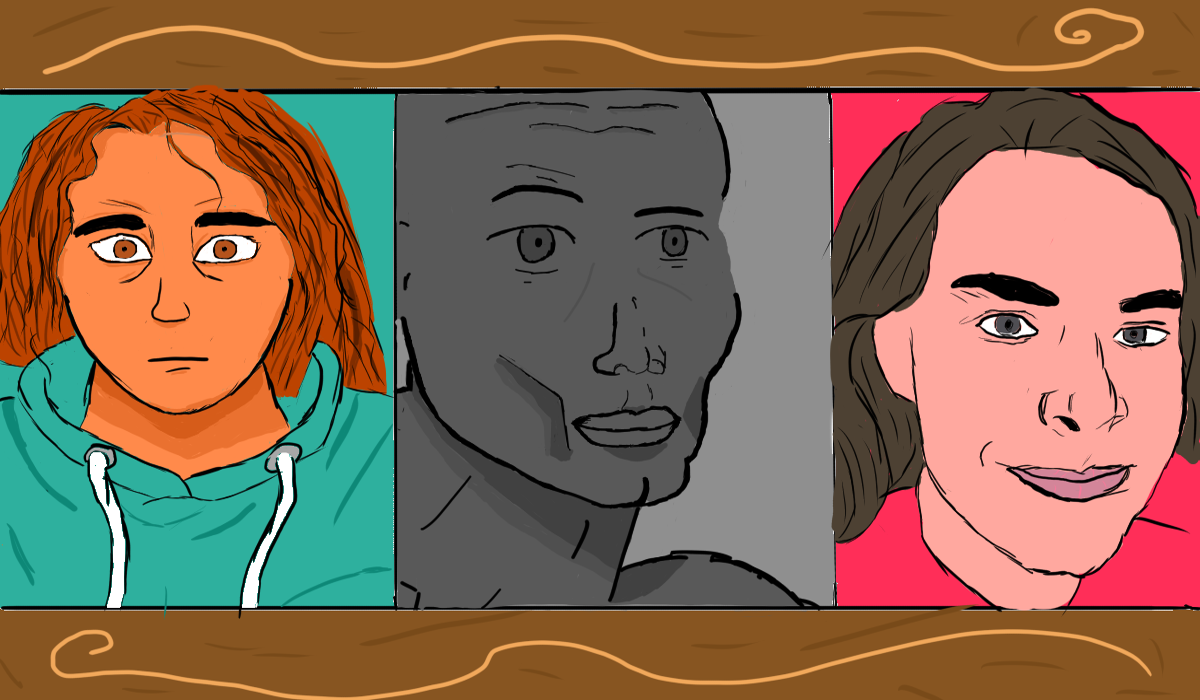
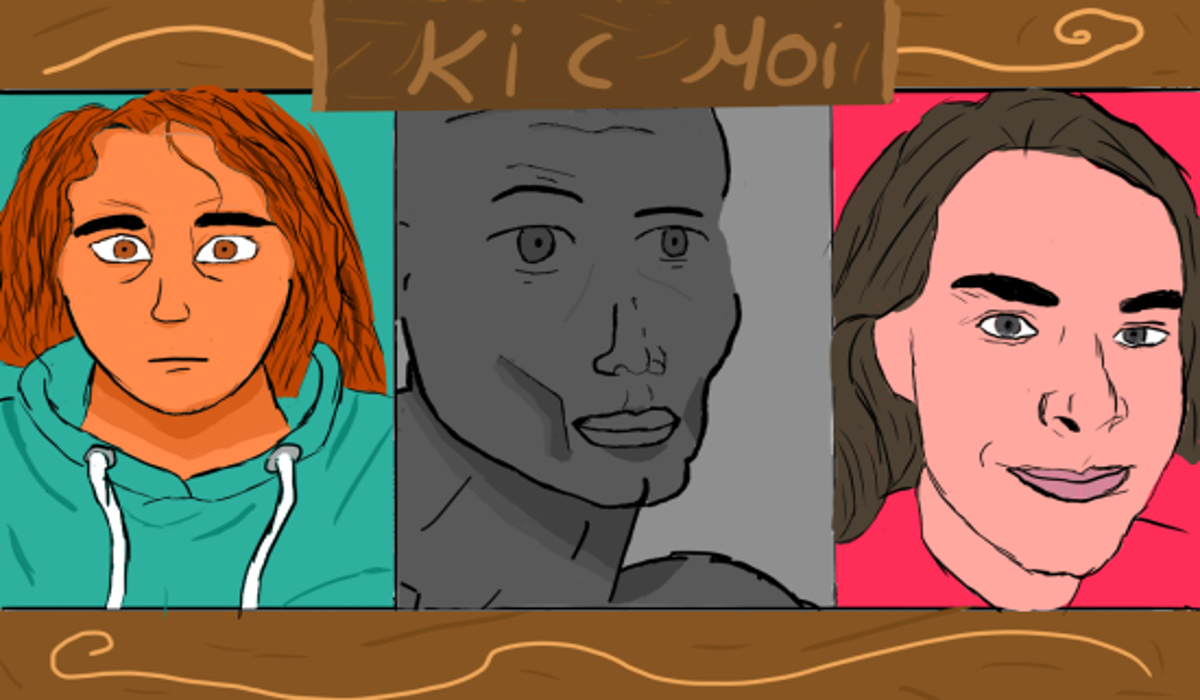
push

diff --git a/tkfeur.py b/tkfeur.py
@@ -13,11 +13,11 @@ from math import *
 from random import *
 import re
 import marshal
-import csv
 ImageFile.LOAD_TRUNCATED_IMAGES = True
 
 jeu = Tk()
 jeu.geometry("1200x700")
+jeu.title("Ki c moi?")
 jeu.resizable(False,False)
 serv_or_join = None
 class Background():
@@ -46,18 +46,27 @@ class Background():
 
 class Image_perso():
 	def __init__(self,nom,fenetre,choix):
-		self.nom= nom
+		self.nom = nom
 		self.image = Image.open("assets/perso_fin/"+str(self.nom)+".png")
 		self.image = self.image.resize((75,75))
 		self.image.save("assets/perso_fini/"+str(nom)+".png")
 		self.img = ImageTk.PhotoImage(file="assets/perso_fini/"+str(nom)+".png")
 		self.bouton = Button(fenetre,image=self.img,command=self.clic,bg="#c14698",bd=0,activebackground="#852563")
+		self.bouton2 = Button(fenetre,image=self.img,command=self.clic2,bg="#c14698",bd=0,activebackground="#852563")
 		self.labelimg = Label(fenetre,image=self.img,bg="#c14698")
 		self.choix = choix
 		self.fenetre = fenetre
 	def bouton_image(self):
 		return self.bouton
+	def bouton_image2(self):
+		return self.bouton2
 	def clic(self):
+		jeu_ecran(self.choix)
+	def clic2(self):
+		timage = Image.open("assets/background_jeu/arriere.png")
+		timage = timage.resize((75,75))
+		timage.save("assets/perso_fin/"+str(self.nom)+".png")
+		self.img = ImageTk.PhotoImage(file="assets/perso_fini/"+str(self.nom)+".png")
 		jeu_ecran(self.choix)
 	def label_image(self):
 		return self.labelimg
@@ -65,7 +74,6 @@ class Image_perso():
 
 class Personnages():
 	def __init__(self,liste_personnages,fenetre,choix):
-		global liste_noms
 		self.liste_personnages = liste_personnages
 		self.frame = Frame(fenetre,bg="#c14698")
 		self.liste_image = []
@@ -80,10 +88,10 @@ class Personnages():
 		for ligne in range(5):
 			for colone in range(8):
 				self.f2=Frame(self.frame,bg="#c14698")
-				self.liste_image.append(Image_perso(liste_noms[self.liste_personnages[id_perso]][1],self.f2,self.choix))
+				self.liste_image.append(Image_perso(self.liste_personnages[id_perso],self.f2,self.choix))
 				id_perso+=1
 				self.liste_image[id_perso-1].bouton_image().pack()
-				self.label = Label(self.f2,text=str(liste_noms[self.liste_personnages[id_perso-1]][1])+str(" ("+str(liste_noms[self.liste_personnages[id_perso-1]][0])+")"),font=("Aqum two", 10),bg="#c14698")
+				self.label = Label(self.f2,text=str(self.liste_personnages[id_perso-1])+str(" (F)"),font=("Aqum two", 10),bg="#c14698")
 				self.label.pack()
 				self.f2.grid(row=ligne,column=colone,padx=3)
 
@@ -96,10 +104,10 @@ class Personnages():
 		for ligne in range(5):
 			for colone in range(8):
 				self.f2=Frame(self.frame,bg="#c14698")
-				self.liste_image.append(Image_perso(liste_noms[self.liste_personnages[id_perso]][1],self.f2,self.choix))
+				self.liste_image.append(Image_perso(self.liste_personnages[id_perso],self.f2,self.choix))
 				id_perso+=1
-				self.liste_image[id_perso-1].label_image().pack()
-				self.label = Label(self.f2,text=str(liste_noms[self.liste_personnages[id_perso-1]][1])+str(" ("+str(liste_noms[self.liste_personnages[id_perso-1]][0])+")"),font=("Aqum two", 10),bg="#c14698")
+				self.liste_image[id_perso-1].bouton_image2().pack()
+				self.label = Label(self.f2,text=str(self.liste_personnages[id_perso-1])+str(" (F)"),font=("Aqum two", 10),bg="#c14698")
 				self.label.pack()
 				self.f2.grid(row=ligne,column=colone,padx=3)
 
@@ -178,24 +186,24 @@ class User_connect():
 			self.b.create_text(985,200,text="Joueur en attente...",font=("Aqum two", 17))
 			self.b.create_text(850,250,text="Joueur : ...",font=("Aqum two",15),anchor="nw")
 			self.b.create_text(850,310,text="IP : ...",font=("Aqum two",15),anchor="nw")
-			Label(jeu,text="En attente",font=("Aqum two",17)).place(x=169,y=404)
+			Label(jeu,text="En attente",font=("Aqum two",17)).place(x=169,y=404) 
 			self.pseudo_enter = Entry(jeu,textvariable=self.pseudo,font=("Aqum two",13),width=14)
-			self.pseudo_enter.place(x=600,y=79)
+			self.pseudo_enter.place(x=600,y=79) 
 			self.confirmer = Button(jeu,command=self.confirm,text="✓")
-			self.confirmer.place(x=770,y=80)
+			self.confirmer.place(x=770,y=80) 
 		else:
 			self.b.pack_forget()
 			ip = extract_ip()
 			img=attente.background()
 			frame_ip_jouer = Canvas(jeu,width=1200,height=700)
 			frame_ip_jouer.create_image(600,350,image=img)
-			frame_ip_jouer.create_text(225,90,text="Votre IP : "+str(ip),font=("Aqum two", 17))
+			frame_ip_jouer.create_text(225,90,text="Votre IP : "+str(ip),font=("Aqum two", 17)) 
 			self.b = frame_ip_jouer
 			self.b.create_text(985,200,text="Joueur connecté ! ",font=("Aqum two", 17))
 			self.b.create_text(850,250,text="Joueur : "+str(self.pseudo),font=("Aqum two",15),anchor="nw")
 			self.b.create_text(850,310,text="IP : "+str(self.ip[0]),font=("Aqum two",15),anchor="nw")
-			Button(jeu,image=self.bouton,command=self.jouer).place(x=60,y=370)
-			self.pseudo_enter.place(x=600,y=79)
+			Button(jeu,image=self.bouton,command=self.jouer).place(x=60,y=370) 
+			self.pseudo_enter.place(x=600,y=79)  
 		self.b.pack()
 	def jouer(self):
 		self.b.pack_forget()
@@ -203,7 +211,7 @@ class User_connect():
 		perso.afficher_en_bouton()
 	def confirm(self):
 		self.confirmer.place_forget()
-		self.b.create_text(225,90,text="Votre IP : "+str(self.ip),font=("Aqum two", 17))
+		self.b.create_text(225,90,text="Votre IP : "+str(self.ip),font=("Aqum two", 17)) 
 		self.pseudo_enter.configure(state="disabled")
 		thread1.start()
 class Tchat():
@@ -276,20 +284,18 @@ class Join():
 
 def ecran_principal(principal):
 	principal.background()
-	f = Frame(jeu)
-	f.pack(side=BOTTOM)
-	Button(f,text="Jouer",font=("Aqum two",17),image=bouton,command=ecran_multi).pack(side=LEFT)
-	Button(f,text="Jouer",font=("Aqum two",17),image=bouton1,command=ecran_join).pack(side = LEFT)
+	f = Frame(jeu) 
+	f.pack(side=BOTTOM) 
+	Button(f,text="Jouer",font=("Aqum two",17),image=bouton,command=ecran_multi).pack(side=LEFT) 
+	Button(f,text="Jouer",font=("Aqum two",17),image=bouton1,command=ecran_join).pack(side = LEFT) 
 
-
+ip_image=PhotoImage(file="assets/background_jeu/ip_d.png") 
+pseudo_image=PhotoImage(file="assets/background_jeu/pseudo_d.png") 
+image_rejoindre=PhotoImage(file="assets/background_jeu/bouton_jouer1.png") 
 
 def ecran_jeu(choix,perso):
 	choix.background()
 	perso.afficher_en_bouton()
-
-ip_image=PhotoImage(file="assets/background_jeu/ip_d.png")
-pseudo_image=PhotoImage(file="assets/background_jeu/pseudo_d.png")
-image_rejoindre=PhotoImage(file="assets/background_jeu/bouton_jouer1.png")
 
 def ecran_join():
 	def client():
@@ -303,19 +309,18 @@ def ecran_join():
 	thread3 = threading.Thread(target=client)
 	choix.background()
 	ip = StringVar()
-	ip_frame = Frame(jeu)
-	ip_frame.pack(pady=60)
-	ip_label = Label(ip_frame,image=ip_image)
-	ip_label.pack()
-	Entry(ip_frame,textvariable=ip,font=("Aqum two", 11),width=26).place(x=55,y=38)
+	ip_frame = Frame(jeu) 
+	ip_frame.pack(pady=60) 
+	ip_label = Label(ip_frame,image=ip_image) 
+	ip_label.pack() 
+	Entry(ip_frame,textvariable=ip,font=("Aqum two", 11),width=26).place(x=55,y=38) 
 	pseudo = StringVar()
-	pseudo_frame = Frame(jeu)
-	pseudo_frame.pack(pady=60)
-	pseudo_label=Label(pseudo_frame,image= pseudo_image)
-	pseudo_label.pack()
-	Entry(pseudo_frame,textvariable=pseudo,width=21,font=("Aqum two", 11)).place(x=105,y=38)
-	Button(jeu,command=thread3.start,image=image_rejoindre).pack(pady=60)
-
+	pseudo_frame = Frame(jeu) 
+	pseudo_frame.pack(pady=60) 
+	pseudo_label=Label(pseudo_frame,image= pseudo_image) 
+	pseudo_label.pack() 
+	Entry(pseudo_frame,textvariable=pseudo,width=21,font=("Aqum two", 11)).place(x=105,y=38) 
+	Button(jeu,command=thread3.start,image=image_rejoindre).pack(pady=60) 
 
 def ecran_multi():
 	for widget in jeu.winfo_children():
@@ -416,9 +421,9 @@ def compile_image_perso(perso_name,list_arg):
     b=b.resize((512,512))
     b.save("assets/perso_fin/"+str(perso_name)+".png")
 
+
 class Gen_perso():
 	def __init__(self,liste_perso):
-		global liste_noms
 		self.relation = {"Bouche":[(1,3),(2,2),(3,1),(4,4),(5,2),(6,4),(7,2),(8,2),(9,1)],"Yeux":[(1,1),(2,2),(3,4),(4,2),(5,3),(6,3),(7,3),(8,5),(9,3),(10,3),(11,2),(12,5),(13,4),(14,2),(15,3),(16,3),(17,4),(18,5),(19,3),(20,2),(21,4),(22,5),(23,3)],"Visage":[(1,1),(2,2)],"Nez":[(1,1),(2,2),(3,2),(4,2),(5,2),(6,1),(7,1)],"Cosmetique":[(1,1),(2,2)],"Cheuveux":[(1,1),(2,3),(3,5),(4,2),(5,4),(6,2),(7,3),(8,1)],"Background":[(1,1),(2,1),(3,2),(4,2),(5,2),(6,3),(7,3),(8,3)],"Genre":[(1,1),(2,2)]}
 		self.liste_attribut = []
 		self.liste_attribut.append(Nb_attribut_list("cheuveux").liste)
@@ -462,7 +467,7 @@ class Gen_perso():
 		self.liste_attribut_total.append(self.dico_attribut["Cosmetique"][1])
 		self.liste_attribut_total.append(self.dico_attribut["Background"][1])
 		self.liste_attribut_total.append(self.dico_attribut["Genre"][1])
-		compile_image_perso(liste_noms[self.liste_perso[nb_perso-2]][1],[self.dico_attribut["Cheuveux"][1],self.dico_attribut["Visage"][1],self.dico_attribut["Yeux"][1],self.dico_attribut["Nez"][1],self.dico_attribut["Bouche"][1],self.dico_attribut["Cosmetique"][1],self.dico_attribut["Background"][1]])
+		compile_image_perso(nb_perso,[self.dico_attribut["Cheuveux"][1],self.dico_attribut["Visage"][1],self.dico_attribut["Yeux"][1],self.dico_attribut["Nez"][1],self.dico_attribut["Bouche"][1],self.dico_attribut["Cosmetique"][1],self.dico_attribut["Background"][1]])
 	def envoyer_liste(self):
 		self.liste_attribut_total = marshal.dumps(self.liste_attribut_total)
 		return self.liste_attribut_total
@@ -470,59 +475,24 @@ liste_personnages = []
 
 class Gen_perso_par_liste():
 	def __init__(self,liste):
-		global liste_noms
 		for perso in range(40):
-			print(liste_noms[liste[perso]])
-			compile_image_perso(liste_noms[liste[perso]],[liste[9*perso+1],liste[9*perso+2],liste[9*perso+3],liste[9*perso+4],liste[9*perso+5],liste[9*perso+6],liste[9*perso+7],liste[9*perso+8]])
+			compile_image_perso(perso+1,[liste[9*perso+1],liste[9*perso+2],liste[9*perso+3],liste[9*perso+4],liste[9*perso+5],liste[9*perso+6],liste[9*perso+7],liste[9*perso+8]])
 
 
 perso_reels = os.listdir("assets/perso_reel/")
 perso_reels_liste = []
 for perso_reel in perso_reels:
 	perso_reels_liste.append(perso_reel)
-
-fichier_nom = open("bdd/liste_des_prenoms.csv")
-cr = csv.reader( fichier_nom,delimiter=";")
-
-with fichier_nom as f:
-    reader = csv.reader(f)
-    list_prenom = list(reader)
-liste_noms = [] 
-for c in list_prenom:
-	a = ''
-	for i in c:
-		a+=i
-	a = a.split(";")
-	a = a[1:4]
-	a.pop(1)
-	liste_noms.append(a)
-
-
-liste_perso_nom = []
-
-
-def generer_nom(liste_nom,liste_total):
-	if len(liste_total)==40:
-		return liste_total
-	else:
-		nom = randint(1,len(liste_nom)-1)
-		liste_total.append(nom)
-		liste_nom.pop(nom)
-		return generer_nom(liste_nom,liste_total)
-
-
-
 for perso in range(1,41):
-	#rand = randint(0,40)
-	#if rand == 20:
-	#	shuffle(perso_reels_liste)
-	#	perso_choisi = perso_reels_liste[0]
-	#	perso_reels_liste.pop(0)
-	#	perso_choisi = perso_choisi.replace(".png","")
-	#	liste_personnages.append(perso_choisi)
-	#else:
-	#	liste_personnages.append(perso)
-	liste_personnages = generer_nom(liste_noms,[])
+	rand = randint(0,40)
+	if rand == 20 or rand == 21:
+		shuffle(perso_reels_liste)
+		perso_choisi = perso_reels_liste[0]
+		perso_reels_liste.pop(0)
+		perso_choisi = perso_choisi.replace(".png","")
+		liste_personnages.append(perso_choisi)
+	else:
+		liste_personnages.append(perso)
 print(liste_personnages)
 perso_creer = Gen_perso(liste_personnages)
 
